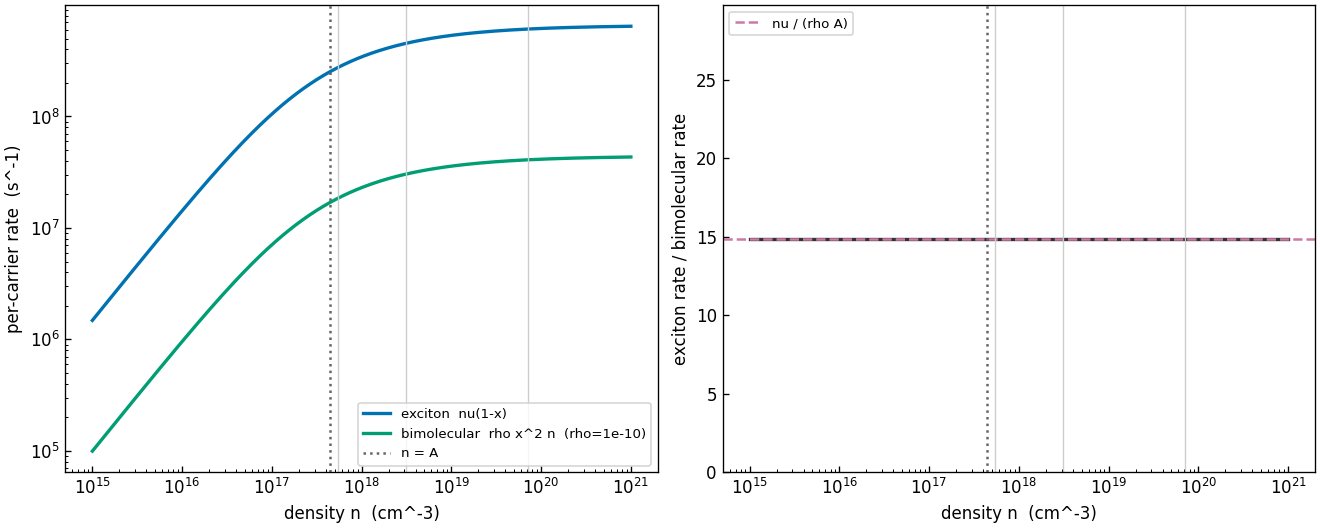
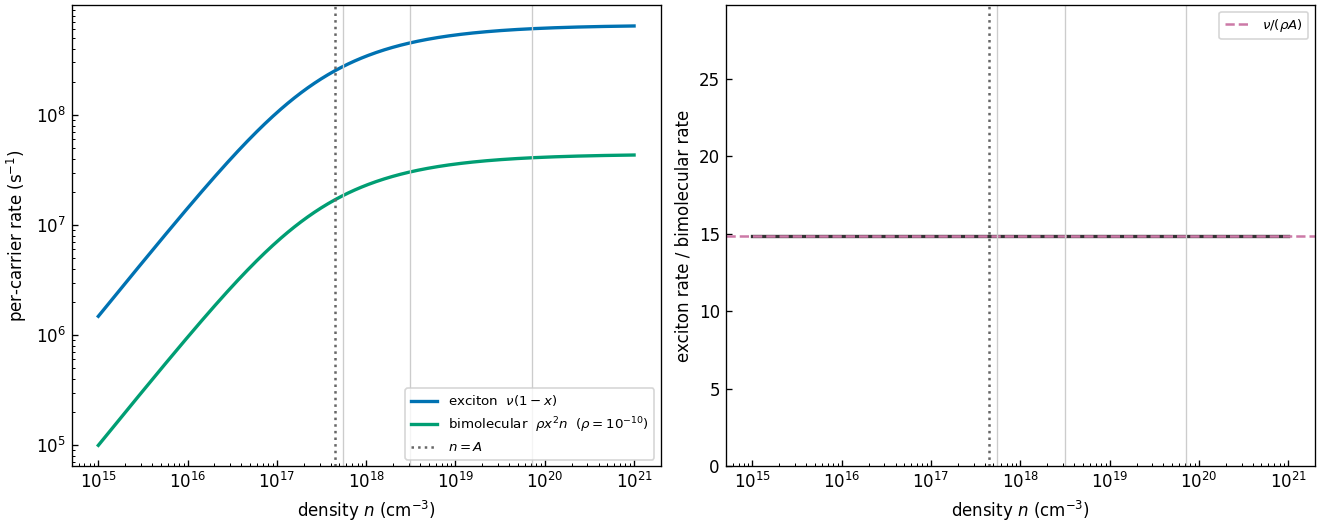
n_inf figures: mathtext labels with Greek symbols (nu/lambda/gamma/rho), math-rendered axes and legends

diff --git a/experiments/saha-reaction-diffusion/lifetime_identifiability.py b/experiments/saha-reaction-diffusion/lifetime_identifiability.py
@@ -153,7 +153,7 @@ def plot_fit(data, pbest, out, prefix):
         te, ple, n0 = times[i], pls[i], Nexc[i]
         mv = te <= 20.0
         ax.plot(te[mv], ple[mv]/(np.max(ple[mv])+1e-30), "o", ms=4, mfc="none",
-                color=c, label=f"Nexc = {n0:.1e}")
+                color=c, label=fr"$N_{{\mathrm{{exc}}}}$ = {n0:.1e}")
         ts, ys = run_lifetime(A, qratio, nu, rho, n0, lam, gamma, qtrap)
         ax.plot(ts*1e9, ys, "-", color=c, lw=1)
     ax.set_xscale("log"); ax.set_yscale("log"); ax.set_ylim(3e-3, 1.1)
@@ -167,17 +167,17 @@ def plot_fit(data, pbest, out, prefix):
 def profile(data, pbest, out, prefix, npts=19):
     SSR_min, N = ssr(pbest, data); s2 = SSR_min/(N-6)
     print(f"SSR_min={SSR_min:.4e} N={N} s^2={s2:.3e}")
-    specs = [(0, "nu  (s^-1)", np.linspace(7, 10, npts)),
-             (2, "lam  (s^-1)", np.linspace(7, 9, npts)),
-             (3, "gamma  (s^-1)", np.linspace(5, 11, npts+6)),
-             (1, "rho  (cm^3 s^-1)", np.linspace(-18, -9, npts))]
+    specs = [(0, r"$\log_{10}\,\nu\ \mathrm{(s^{-1})}$", np.linspace(7, 10, npts)),
+             (2, r"$\log_{10}\,\lambda\ \mathrm{(s^{-1})}$", np.linspace(7, 9, npts)),
+             (3, r"$\log_{10}\,\gamma\ \mathrm{(s^{-1})}$", np.linspace(5, 11, npts+6)),
+             (1, r"$\log_{10}\,\rho\ \mathrm{(cm^3\,s^{-1})}$", np.linspace(-18, -9, npts))]
     fig, axes = plt.subplots(2, 2, figsize=(11, 8), constrained_layout=True)
     for ax, (idx, lab, grid) in zip(axes.ravel(), specs):
         prof = np.array([_refit_fixing(idx, v, pbest, data)[0] for v in grid]) - SSR_min
         ax.plot(grid, prof, "o-", color=CB[0])
-        ax.axhline(s2, color="0.4", ls=":", label="s^2 (~1 sigma)")
+        ax.axhline(s2, color="0.4", ls=":", label=r"$s^2\ (\sim 1\sigma)$")
         ax.axvline(pbest[idx], color=CB[2], ls="--", lw=1)
-        ax.set_xlabel("log10 " + lab); ax.set_ylabel("SSR - SSR_min")
+        ax.set_xlabel(lab); ax.set_ylabel(r"$\mathrm{SSR}-\mathrm{SSR_{min}}$")
         ax.set_ylim(-0.05*max(8*s2, 1), max(8*s2, 1.3*np.nanpercentile(prof, 35)+1e-9))
         ax.tick_params(direction="in"); ax.legend(fontsize=8)
         rng = float(np.nanmax(prof))
@@ -202,16 +202,17 @@ def tradeoff(data, pbest, out, prefix, npts=25):
           f"{100*(lam_v[flat].max()/lam_v[flat].min()-1):.2f}%, "
           f"gamma spread {100*(gam_v[flat].max()/gam_v[flat].min()-1):.2f}%")
     fig, ax = plt.subplots(1, 2, figsize=(11, 4.3), constrained_layout=True)
+    rho_lab = r"$\log_{10}\,\rho\ \mathrm{(cm^3\,s^{-1})}$"
     ax[0].plot(grid, ssr_v, "o-", color=CB[0]); ax[0].axvline(cross, color="0.4", ls=":")
-    ax[0].set_xlabel("log10 rho  (cm^3 s^-1)"); ax[0].set_ylabel("profiled SSR")
+    ax[0].set_xlabel(rho_lab); ax[0].set_ylabel(r"profiled $\mathrm{SSR}$")
     ax[0].tick_params(direction="in")
-    ax[1].plot(grid, nu_v, "o", color=CB[0], label="refit nu")
+    ax[1].plot(grid, nu_v, "o", color=CB[0], label=r"refit $\nu$")
     ax[1].plot(grid, np.clip(nu_eff-rho*A, 0, None), "--", color="0.2",
-               label="nu_eff - rho*A")
-    ax[1].plot(grid, lam_v, "s", ms=3, color=CB[1], label="lam (refit)")
-    ax[1].plot(grid, gam_v, "^", ms=3, color=CB[2], label="gamma (refit)")
+               label=r"$\nu_{\mathrm{eff}}-\rho A$")
+    ax[1].plot(grid, lam_v, "s", ms=3, color=CB[1], label=r"$\lambda$ (refit)")
+    ax[1].plot(grid, gam_v, "^", ms=3, color=CB[2], label=r"$\gamma$ (refit)")
     ax[1].axvline(cross, color="0.4", ls=":")
-    ax[1].set_xlabel("log10 rho  (cm^3 s^-1)"); ax[1].set_ylabel("rate (s^-1)")
+    ax[1].set_xlabel(rho_lab); ax[1].set_ylabel(r"rate $\mathrm{(s^{-1})}$")
     ax[1].tick_params(direction="in"); ax[1].legend(fontsize=8)
     p = os.path.join(out, f"{prefix}_rho_tradeoff.png"); fig.savefig(p, dpi=120)
     print("saved", p)
@@ -223,18 +224,20 @@ def saha(data, pbest, out, prefix):
     n = np.logspace(15, 21, 400); x = 2/(np.sqrt(4*n/A+1)+1)
     exc = nu*(1-x); bim = rho*x*x*n
     fig, ax = plt.subplots(1, 2, figsize=(11, 4.4), constrained_layout=True)
-    ax[0].loglog(n, exc, color=CB[0], lw=2, label="exciton  nu(1-x)")
+    ax[0].loglog(n, exc, color=CB[0], lw=2, label=r"exciton  $\nu(1-x)$")
     ax[0].loglog(n, bim, color=CB[1], lw=2,
-                 label="bimolecular  rho x^2 n  (rho=1e-10)")
-    ax[0].axvline(A, color="0.4", ls=":", label="n = A")
+                 label=r"bimolecular  $\rho x^2 n$  ($\rho=10^{-10}$)")
+    ax[0].axvline(A, color="0.4", ls=":", label=r"$n = A$")
     ax[1].semilogx(n, exc/bim, color="0.2", lw=2)
-    ax[1].axhline(nu/(rho*A), color=CB[2], ls="--", label="nu / (rho A)")
+    ax[1].axhline(nu/(rho*A), color=CB[2], ls="--", label=r"$\nu/(\rho A)$")
     ax[1].axvline(A, color="0.4", ls=":"); ax[1].set_ylim(0, 2*nu/(rho*A))
     for a in ax:
         for nx in Nexc:
             a.axvline(nx, color="0.8", lw=0.8)
-        a.tick_params(direction="in", which="both"); a.set_xlabel("density n  (cm^-3)")
-    ax[0].set_ylabel("per-carrier rate  (s^-1)"); ax[0].legend(fontsize=8, loc="lower right")
+        a.tick_params(direction="in", which="both")
+        a.set_xlabel(r"density $n\ \mathrm{(cm^{-3})}$")
+    ax[0].set_ylabel(r"per-carrier rate $\mathrm{(s^{-1})}$")
+    ax[0].legend(fontsize=8, loc="lower right")
     ax[1].set_ylabel("exciton rate / bimolecular rate"); ax[1].legend(fontsize=8)
     p = os.path.join(out, f"{prefix}_saha_collapse.png"); fig.savefig(p, dpi=120)
     print("saved", p)
